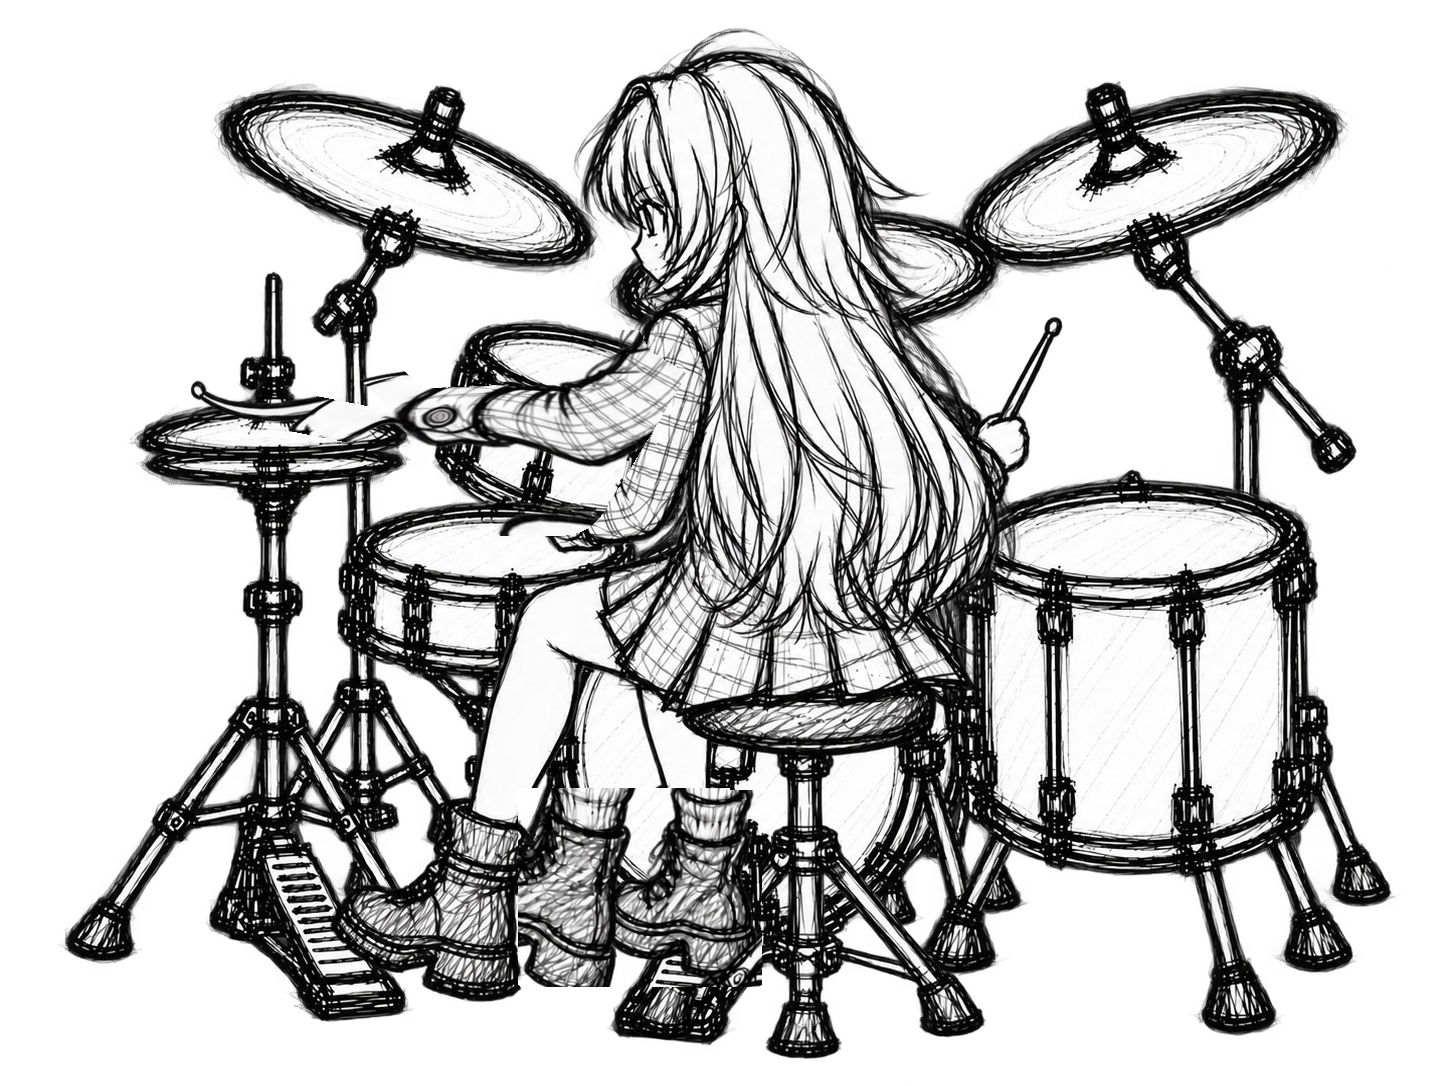
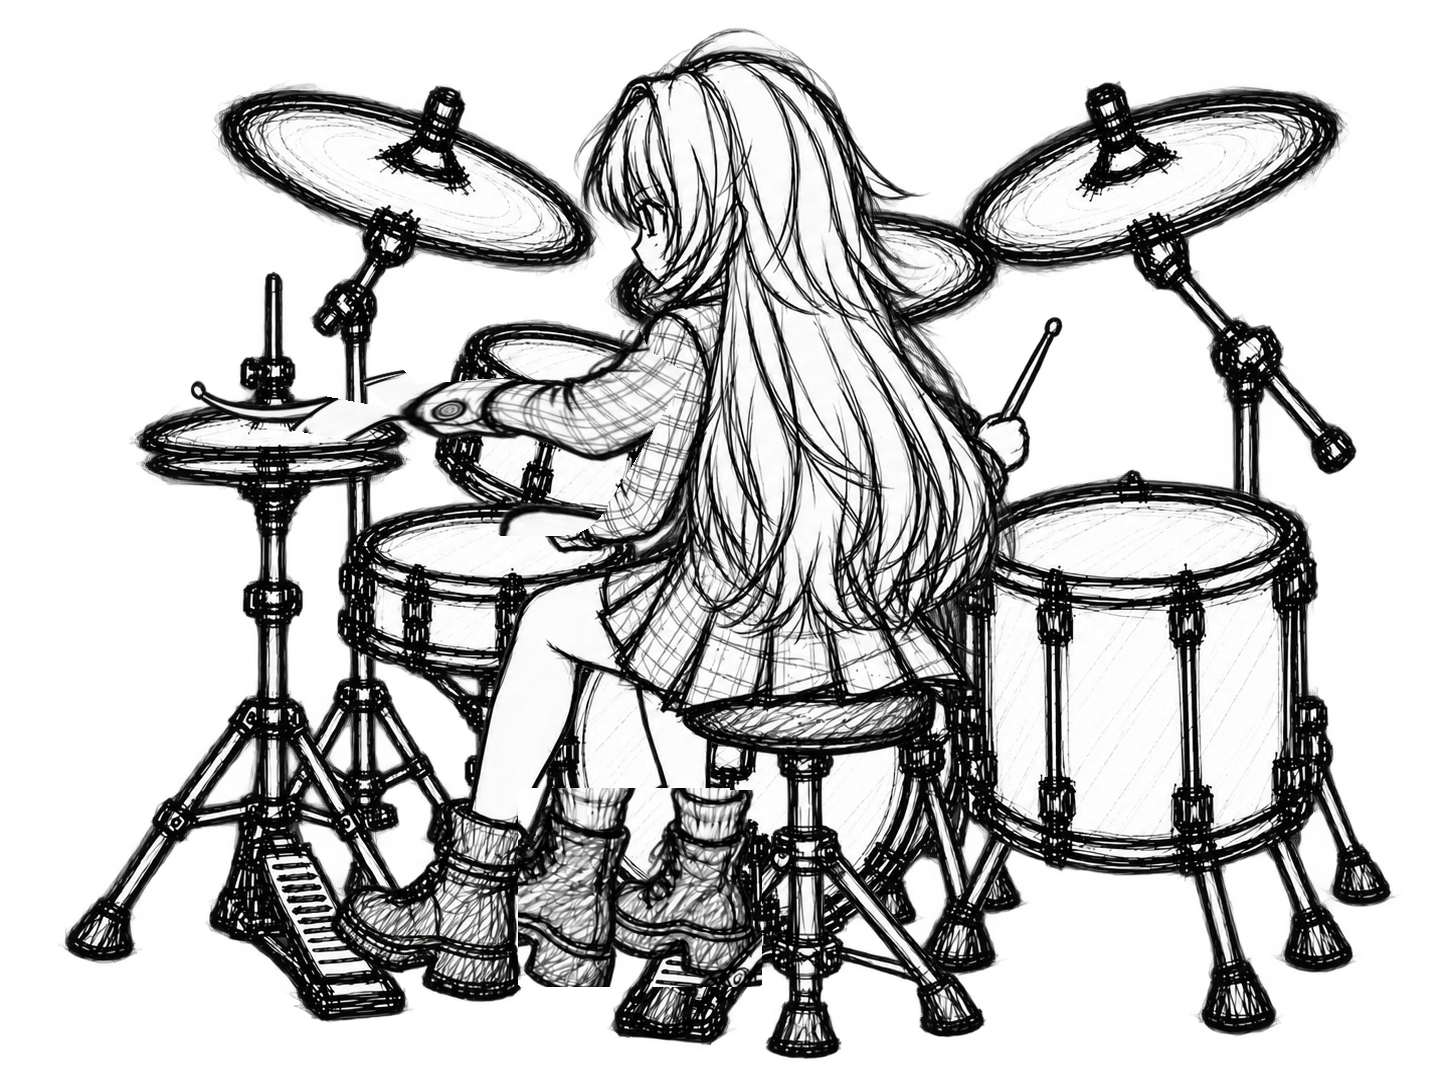
trial: build DMR009 neutral-skeleton hit candidate

Changed region(s): [[0.1554, 0.3343, 0.4662, 0.4254], [0.3419, 0.4558, 0.404, 0.4862]]

diff --git a/CHANGELOG.md b/CHANGELOG.md
@@ -307,3 +307,5 @@ See Git history for earlier character-pose experiments and full-song / 1-16 / 1-
 - 2026-09-21 DMR-009 hit: created neutral-locked skeleton candidate from audited source-pixel HH/BD donors; fixed HH target (190,390), fixed-drum composite and transition QA recorded. Runtime/formal image not overwritten; no second image modified.
 
 - 2026-09-21 DMR-009 hit continuation: repaired residual literal `\\n` tokens that kept the naturalized fast-path builder from executing, then re-requested the same one-image-only DMR-009 hit run with verified inputs reused. No rebound or second image was modified; formal promotion remains blocked pending regenerated QA.
+
+- 2026-09-21 DMR-009 hit: donor-mesh-primary trial rerun with local elbow/wrist/grip naturalization. HH fixed target (190,390), neutral static locks, audited HH/BD donors, fixed-drum composite and transition QA preserved. Runtime/formal image not overwritten; no second image modified.
